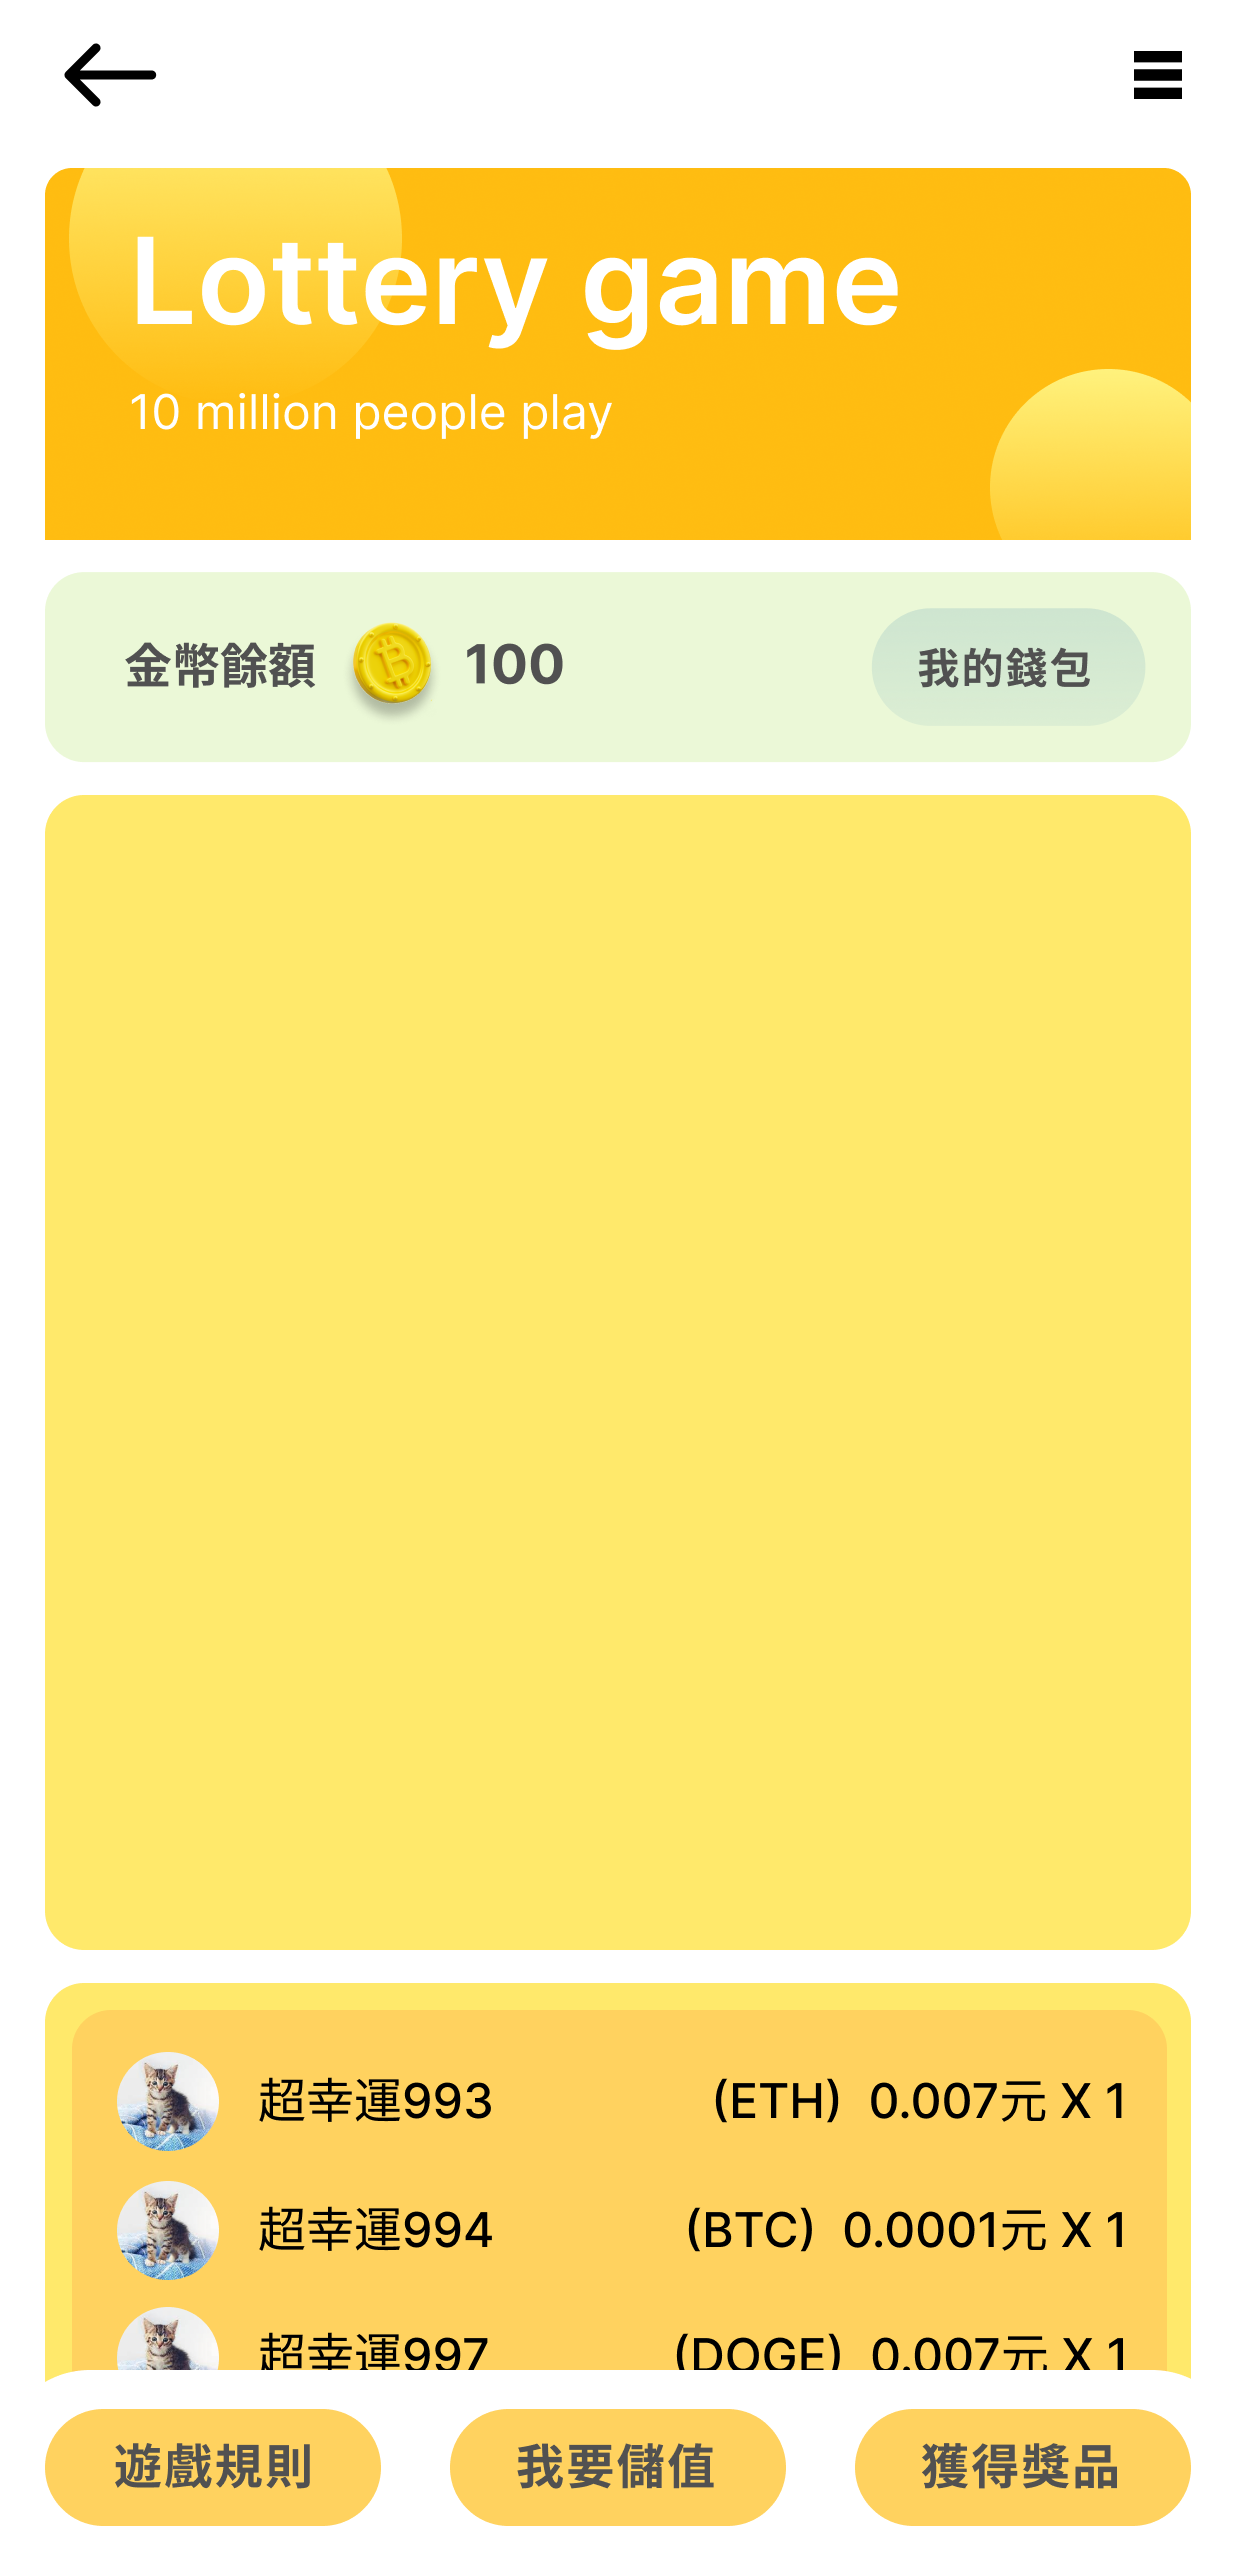
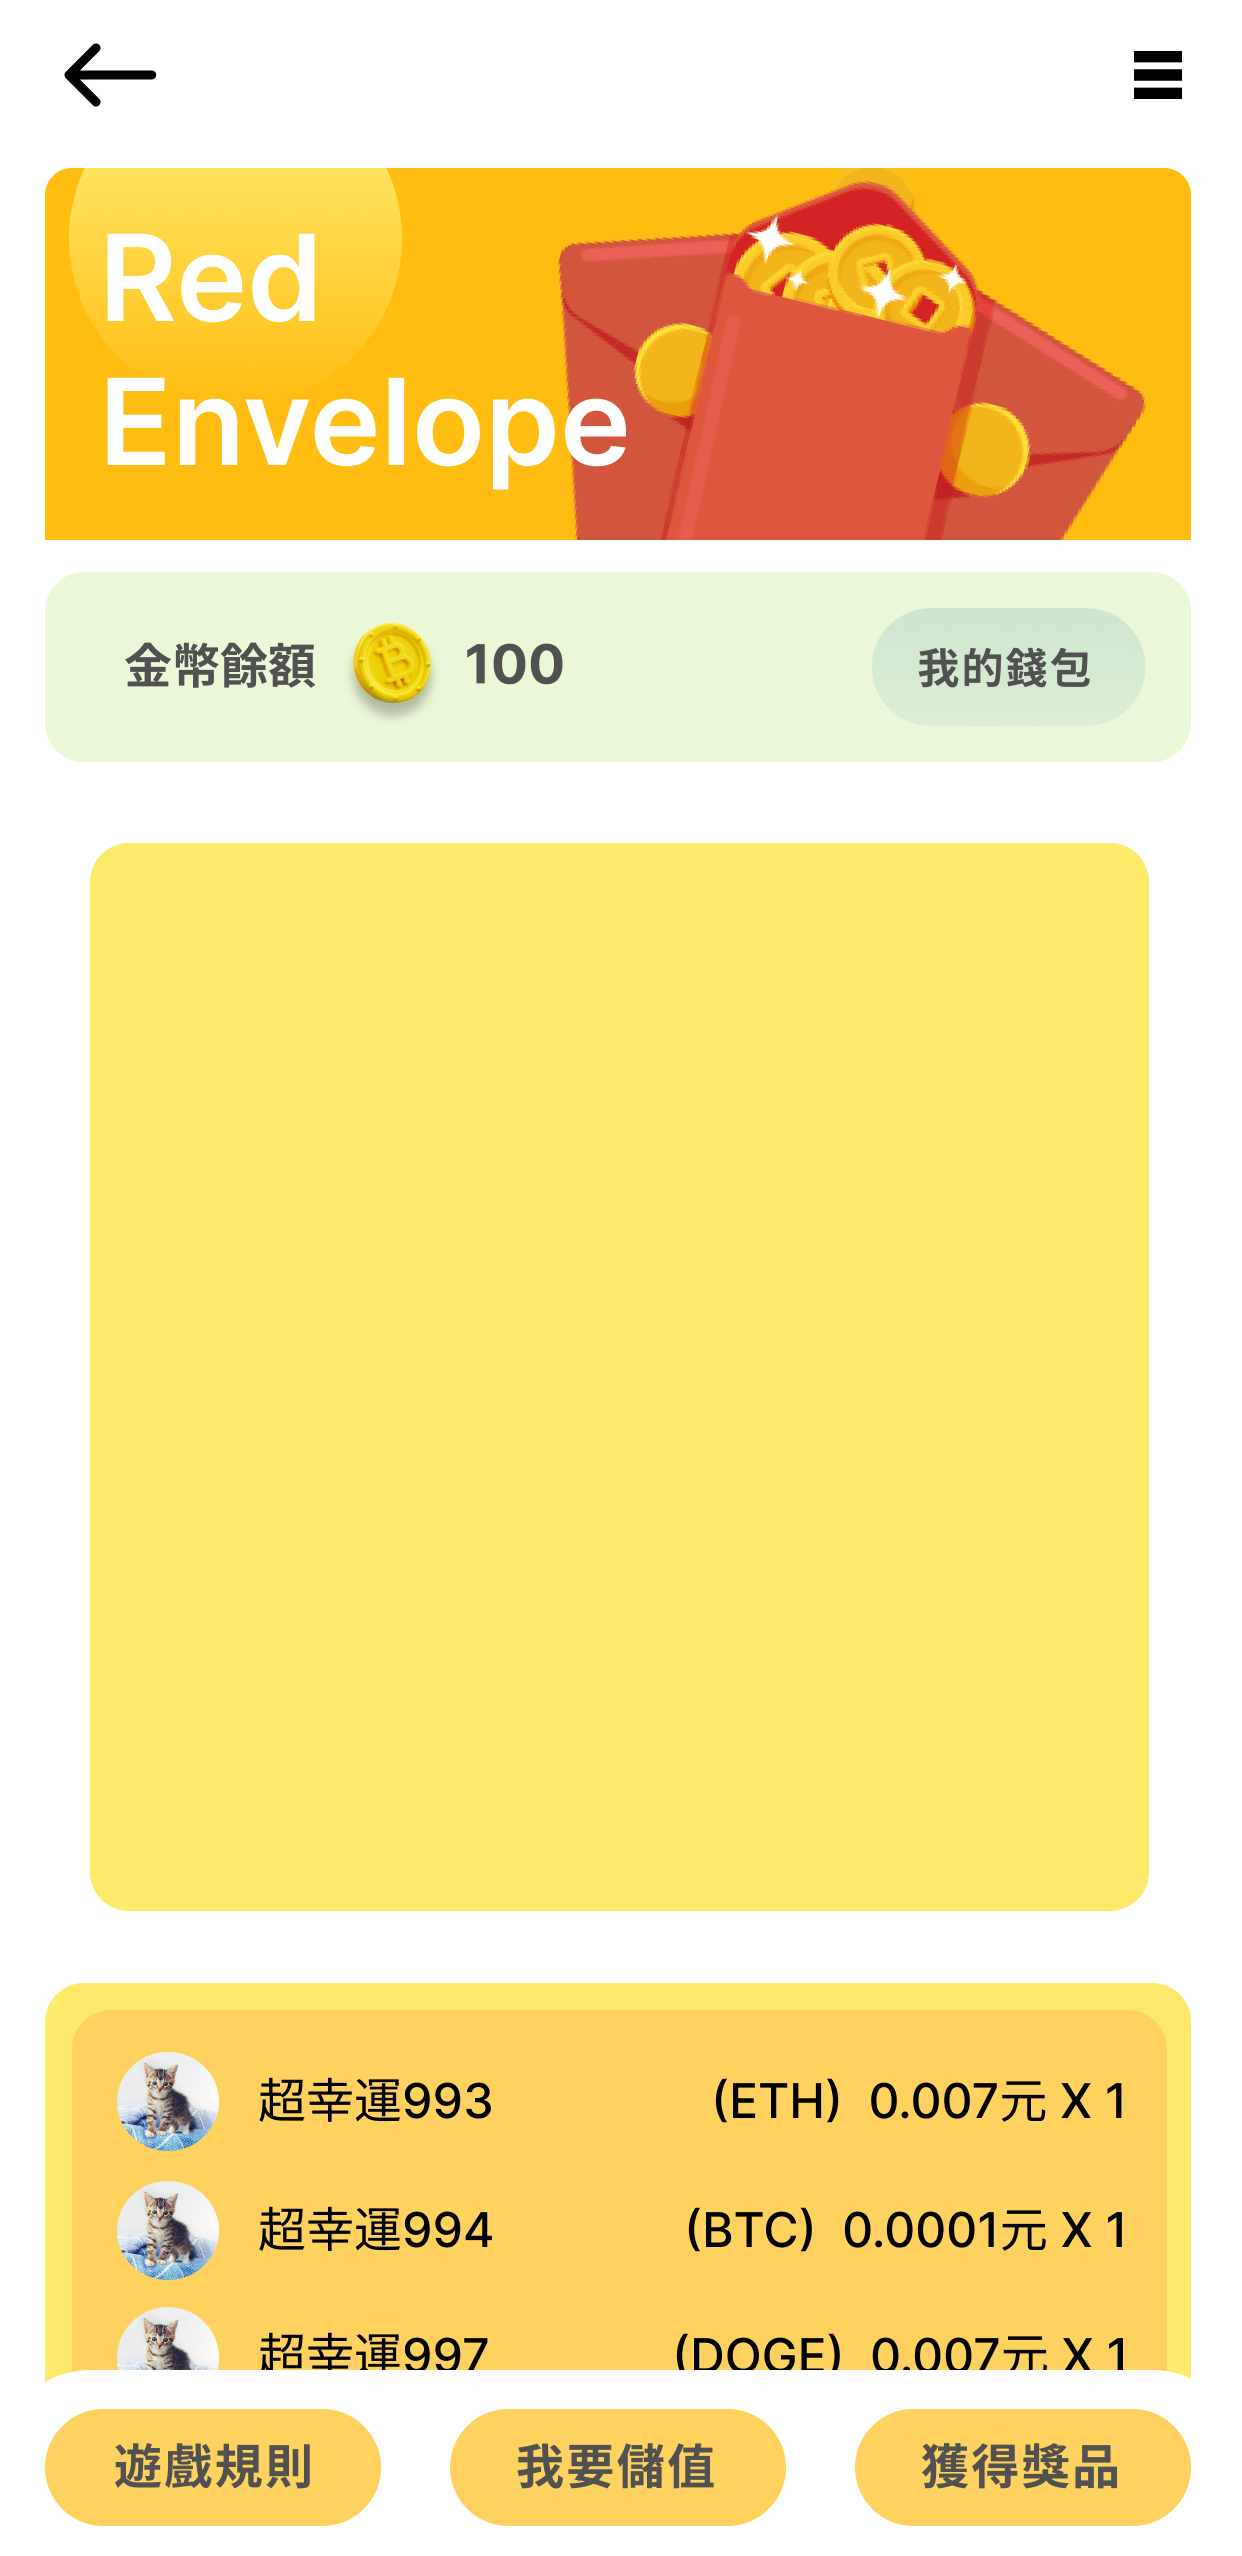
add_css

Changed region(s): [[0.0306, 0.3091, 0.9791, 0.7727], [0.0612, 0.0618, 0.9791, 0.2164]]

diff --git a/tsf.css b/tsf.css
@@ -9,7 +9,8 @@
 .shake-crazy,
 .shake-chunk {
     display: inline-block;
-    transform-origin: center center
+    transform-origin: center center;
+    /* transform-origin: 100%,50%; */
 }
 
 .shake-freeze,
@@ -1631,7 +1632,7 @@
     animation: shake-crazy 100ms ease-in-out infinite
 }
 
-@keyframes shake-chunk {
+/* @keyframes shake-chunk {
     2% {
         transform: translate(5px, 2px) rotate(-12deg)
     }
@@ -1707,6 +1708,90 @@
     38% {
         transform: translate(-12px, 1px) rotate(-13deg)
     }
+
+    0%,
+    40%,
+    100% {
+        transform: translate(0, 0) rotate(0)
+    }
+} */
+
+@keyframes shake-chunk {
+    2% {
+        transform: translate(5px, 2px) rotate(-5deg)
+    }
+
+    4% {
+        transform: translate(-6px, 3px) rotate(1deg)
+    }
+
+    /* 6% {
+        transform: translate(5px, 2px) rotate(6deg)
+    }
+
+    8% {
+        transform: translate(-6px, 3px) rotate(1deg)
+    } */
+
+    10% {
+        transform: translate(5px, 2px) rotate(5deg)
+    }
+
+    12% {
+        transform: translate(-6px, 3px) rotate(1deg)
+    }
+
+    /* 14% {
+        transform: translate(5px, 2px) rotate(6deg)
+    }
+
+    16% {
+        transform: translate(-6px, 3px) rotate(1deg)
+    } */
+
+    18% {
+        transform: translate(5px, 2px) rotate(-5deg)
+    }
+
+    20% {
+        transform: translate(-6px, 3px) rotate(1deg)
+    }
+
+    /* 22% {
+        transform: translate(5px, 2px) rotate(6deg)
+    }
+
+    24% {
+        transform: translate(-6px, 3px) rotate(1deg)
+    } */
+
+    26% {
+        transform: translate(5px, 2px) rotate(5deg)
+    }
+
+    28% {
+        transform: translate(-6px, 3px) rotate(1deg)
+    }
+
+    /* 30% {
+        transform: translate(-6px, 3px) rotate(5deg)
+    }
+
+    32% {
+        transform: translate(5px, 2px) rotate(-6deg)
+    } */
+
+    34% {
+        transform: translate(5px, 2px) rotate(-5deg)
+    }
+
+    36% {
+        transform: translate(-6px, 3px) rotate(1deg)
+    }
+
+    /* 38% {
+        transform: translate(-6px, 3px) rotate(-5deg)
+    } */
 
     0%,
     40%,

diff --git a/index.html b/index.html
@@ -5,16 +5,17 @@
 <meta name="viewport" content="initial-scale=1, maximum-scale=1, user-scalable=no">
 <meta name="format-detection" content="telephone=no">
 <title>Red Envelope Game</title>
-<link rel="stylesheet" href="all.css">
 <link rel="stylesheet" href="tsf.css">
+<link rel="stylesheet" href="all.css">
 <script src="https://code.jquery.com/jquery-3.6.2.js" integrity="sha256-pkn2CUZmheSeyssYw3vMp1+xyub4m+e+QK4sQskvuo4=" crossorigin="anonymous"></script>
 <script src="./red.js"></script>
 </head>
 <body>
-<!-- 紅包 -->
 
+<!-- 紅包 -->
 <div class="container">
     <div class="imge">
+        <a href="https://judywork.github.io/Games_Lobby/"></a>
         <div class="bg">
             <div class="red"><!-- shake-chunk -->
                 <span style="background-image: url(img/red-g.png);"></span>
@@ -45,7 +46,7 @@
         hovertreePrize[2] = { "key": "恭喜您：", "value": "獲得300金幣" };
         hovertreePrize[3] = { "key": "恭喜您：", "value": "獲得400金幣" };
         hovertreePrize[4] = { "key": "恭喜您：", "value": "獲得500金幣" };
-        hovertreePrize[4] = { "key": "恭喜您：", "value": "獲得600金幣" };
+        hovertreePrize[5] = { "key": "恭喜您：", "value": "獲得600金幣" };
 
         var h_index = 0;
         document.getElementById("hove"+"rtreeOpen").addEventListener("click", function () {
@@ -55,6 +56,7 @@
             document.getElementById("hwqValue").innerText = hovertreePrize[h_index].value;
         })
         document.getElementById("hewenqiAgain").addEventListener("click", function () {
+            // location = "index.html"
             location = "https://judywork.github.io/Red-Envelope-Game/";
         })
     </script>

diff --git a/all.css b/all.css
@@ -88,7 +88,7 @@ a{
     width: 100%; 
     background: #ffb342; 
     border-radius: 5px; 
-    color: #fff; 
+    color: #515151; 
     line-height: 40px; 
     font-size: 14px;
 }
